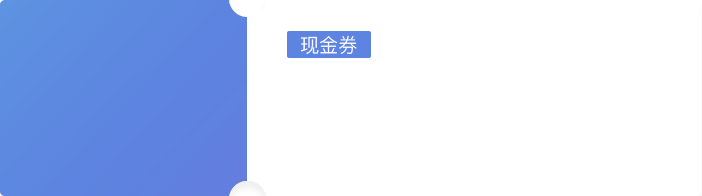
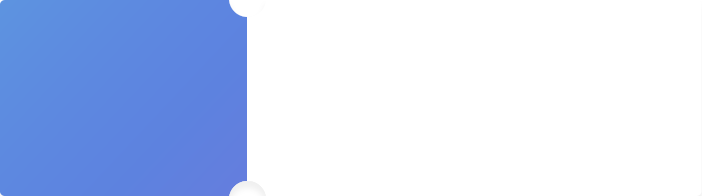
抽奖2

Changed region(s): [[0.3889, 0.1531, 0.5385, 0.3061]]

diff --git a/src/views/activity.vue b/src/views/activity.vue
@@ -61,7 +61,7 @@
                     <div class="coupon-right">
                         <p class="coupon-shop">洛西路店</p>
                         <p class="coupon-time">领取后6日有效</p>
-                        <span class="coupon-choose"></span>
+                        <p class="coupon-text">极速退/免预约</p>
                         
                     </div>
                 </div>
@@ -80,8 +80,7 @@
                     <div class="coupon-right">
                         <p class="coupon-shop">{{lottery_data.store_name}}店</p>
                         <p class="coupon-time">领取后{{lottery_data.expire_day}}日有效</p>
-                        <span class="coupon-choose"></span>
-                        
+                        <p class="coupon-text">极速退/免预约</p>
                     </div>
                 </div>
                 <p>可在卡包中查看</p>
@@ -96,14 +95,13 @@
 <script>
 import '../assets/iconfont/iconfont.css';
 import { requestLotterys, requestGetResult, requestGetCoupon } from '../api/api';
-import { clearInterval } from 'timers';
 export default {
     data(){
         return{
             message:{},
             isshow:false,
             // 头顶播报定时器
-            timer: null,
+            timer5: null,
             /**抽奖列表 */
             list: [],
              // 上次停留位置 index
@@ -127,9 +125,9 @@ export default {
             //  只可进行一次抽奖
             is_one: true,
             //  显示遮罩层
-            is_show: false,
+            is_show: true,
             //  抽中奖品
-            is_lottery: false,
+            is_lottery: true,
             //  获得奖品
             is_get: false,
             //  抽奖返回的数据
@@ -212,7 +210,7 @@ export default {
             let i = this.lastIndex;
              // 执行ajax请求数据
             this.getStopIndex();
-            // console.log(this.list)
+            console.log(this.list)
             this.timer1 = setInterval(() => {
                 this.times ++;
                 i++;
@@ -294,6 +292,7 @@ export default {
                 xpoint: '113.450163',
                 ypoint: '23.107527',
                 order_sn: this.message.order_sn
+                // order_sn: '123s12s31sssfss111s11assds11'
             }
             let list = await requestLotterys(params);
             list = list.data.lottery_info;
@@ -310,7 +309,7 @@ export default {
             let scroll = document.getElementById('scroll')
             let copy = document.getElementById('copy')
             let distance = 0 // 位移距离
-            this.timer = setInterval(function () {
+            this.timer5 = setInterval(function () {
                 distance = distance - 1
                 // 如果位移超过文字宽度，则回到起点
                 if (-distance >= width) {
@@ -545,7 +544,7 @@ main{
 .mask h2{
     color: #fff;
     font-size: .18rem;
-    line-height: .15rem;
+    line-height: .28rem;
     text-align: center;
     height: .645rem;
 }
@@ -621,7 +620,14 @@ main{
         font-weight: bold;
         position: absolute;
         top: .1rem;
-        left: .5rem;
+        left: .1rem;
+    }
+    .mask .coupon-text{
+        font-size: .12rem;
+        color: #999999;
+        position: absolute;
+        left: .1rem;
+        top: .55rem;
     }
    .mask .coupon-time{
         font-size: .12rem;
